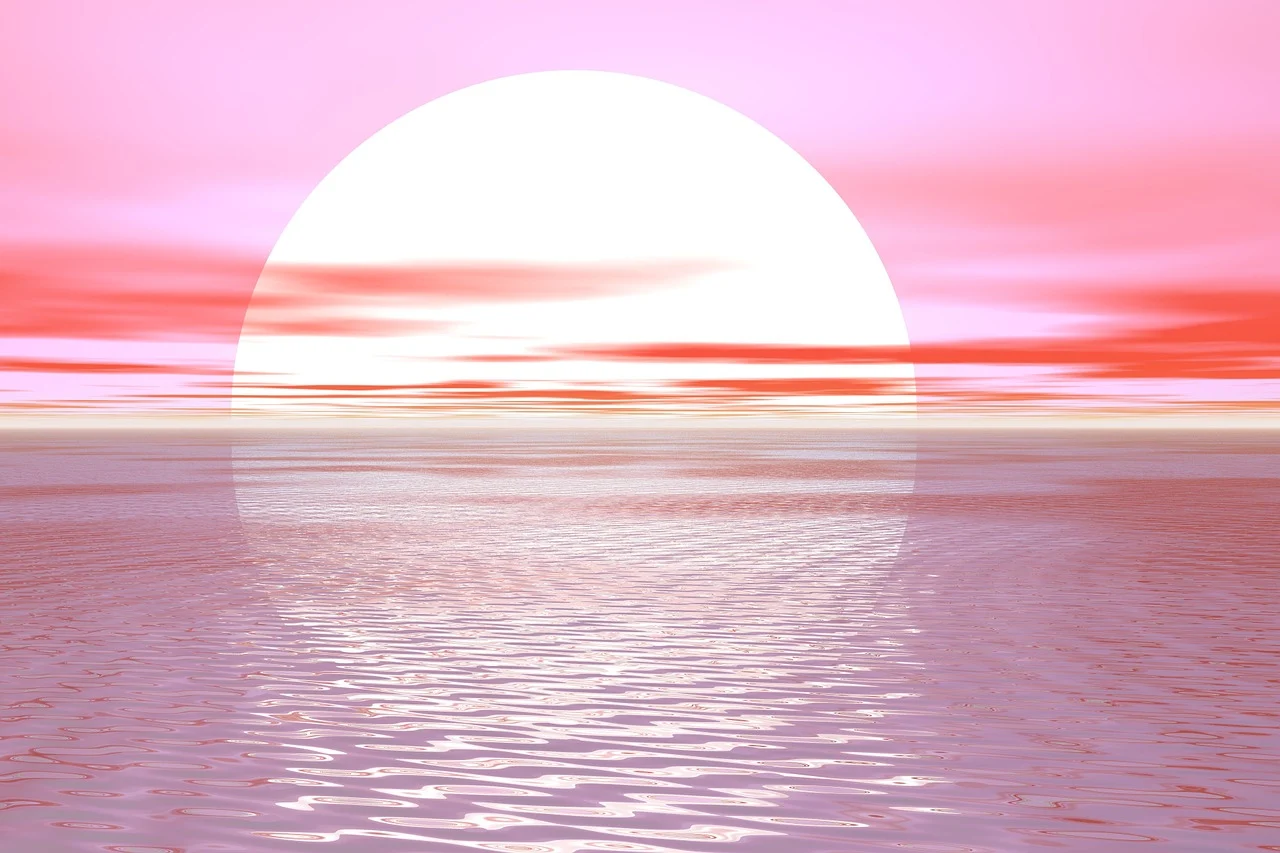
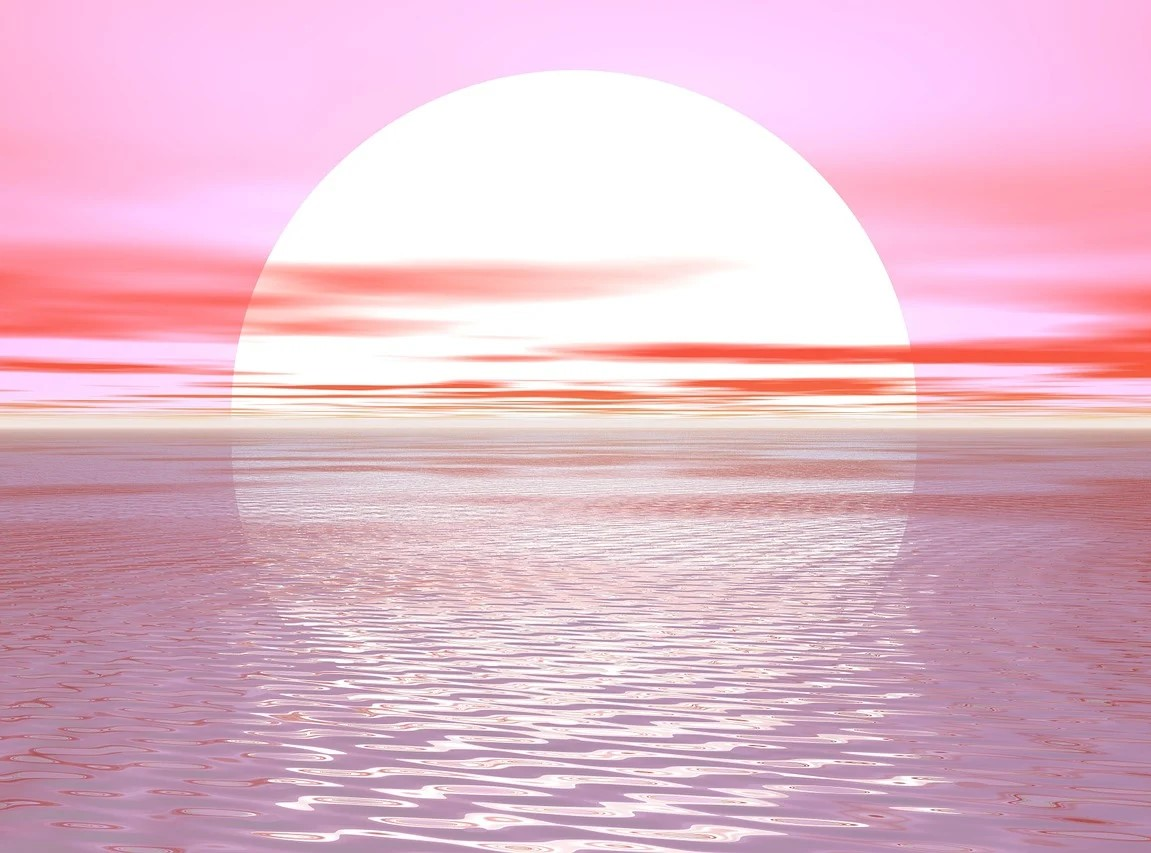
added bg image for landing page -> animated arrow + basic text + moved sections around

diff --git a/sass/partials/_hero.scss b/sass/partials/_hero.scss
@@ -1,22 +1,85 @@
 .hero {
-  height: 75%;
+  height: 100vh;
+  width: 100vw;
 
-  text-align: right;
+  // text-align: right;
 
-  &__heading {
+  // display: flex;
+  // flex-direction: column;
+  // justify-content: center;
+  // align-items: center;
+
+  // flex-wrap: wrap;
+  // align-content: center;
+
+  // margin: 0;
+  // padding: 0;
+
+  &__container {
+    height: 100%;
     width: 100%;
-    font-size: 3em;
+    text-align: right;
 
-    padding: 1em 0.5em 0em 0em;
-    margin: 0em;
+    display: flex;
+    flex-direction: column;
+    justify-content: center;
+    align-items: center;
 
-    &--subheading {
-      font-size: 1em;
+    margin: 0;
 
-      padding: 0em 2em 0em 0em;
-      margin: 0em;
+    // border: 1px dotted white;
 
-      text-decoration: underline;
+    &__heading {
+      width: 90%;
+      height: 10%;
+
+      // padding: 1em 0.5em 0em 0em;
+      // margin: 0em;
+
+      // -webkit-text-stroke: 0.01px grey;
+
+      // border: 1px dotted white;
+      margin: 0;
+      padding: 0;
+
+      color: white;
+      font-size: 4em;
+
+      &--subheading {
+        // width: 80%;
+        height: 6%;
+        font-size: 2em;
+
+        // padding: 0em 0em 0em 0em;
+        // margin: 0em;
+
+        text-decoration: underline;
+      }
     }
+
+    &__background-img {
+      // width: 100vw;
+      // height: 100vh;
+
+      background-image: url("./assets/images/bg-img.jpg");
+      background-repeat: no-repeat;
+      background-position: top right;
+      // background-size: cover;
+      background-size: 100% 100%;
+
+      position: static;
+
+      // margin: 0;
+      // padding: 0 0 50vh 0;
+    }
+  }
+
+  &--arrow-img {
+    height: 3em;
+    width: 3em;
+
+    position: static;
+
+    filter: invert(100%);
   }
 }

diff --git a/index.html b/index.html
@@ -22,10 +22,49 @@
     <body>
       <main>
         <section class="hero">
-          <h1 class="hero hero__heading slide-in-from-right">TOM KIP</h1>
-          <h2 class="hero hero__heading hero__heading--subheading">
-            Junior Software Consultant
-          </h2>
+          <div class="hero hero__container hero__container__background-img">
+            <h1 class="hero hero__container__heading slide-in-from-right">
+              Hi I'm,
+            </h1>
+            <h1 class="hero hero__container__heading slide-in-from-right">
+              TOM KIP
+            </h1>
+            <h2
+              class="hero hero__container__heading hero__container__heading--subheading"
+            >
+              Junior Software Consultant
+            </h2>
+            <img
+              class="hero--arrow-img blur-in-and-out"
+              src="./assets/icons/arrow.svg"
+            />
+          </div>
+        </section>
+        <section>
+          <h1 class="about about__header">About</h1>
+          <img
+            src="./assets/images/headshot-placeholder.svg"
+            class="about__img"
+          />
+          <p class="about">
+            My Name is Tom and I'm and Asipring Software engineer. I've
+            completed a Bachelors in Advanced Computing with Majors in Software
+            Development and Computer Science.
+          </p>
+          <p class="about">
+            I'm currently completing _Nology's program, having pivoted from the
+            Manufacturing Sector. I personally love to solve problems with
+            creative and efficient methods, I loved to work collaboratively with
+            peers or customers and at time indepently as well.
+          </p>
+          <p class="about">
+            My main reason for pursuing a career in tech would be the amount of
+            advancements and wealth of knowledge that can be harnessed to please
+            customers especially with the AI advancements and customer focused
+            products that have emerged recently. This is why I want to grow with
+            the industry and help directly or indirectly create something
+            impactful.
+          </p>
         </section>
         <h4 class="techstack--header">Tech-Stack</h4>
         <section class="techstack">
@@ -199,32 +238,7 @@
             </li>
           </ul>
         </section>
-        <section>
-          <h1 class="about about__header">About</h1>
-          <img
-            src="./assets/images/headshot-placeholder.svg"
-            class="about__img"
-          />
-          <p class="about">
-            My Name is Tom and I'm and Asipring Software engineer. I've
-            completed a Bachelors in Advanced Computing with Majors in Software
-            Development and Computer Science.
-          </p>
-          <p class="about">
-            I'm currently completing _Nology's program, having pivoted from the
-            Manufacturing Sector. I personally love to solve problems with
-            creative and efficient methods, I loved to work collaboratively with
-            peers or customers and at time indepently as well.
-          </p>
-          <p class="about">
-            My main reason for pursuing a career in tech would be the amount of
-            advancements and wealth of knowledge that can be harnessed to please
-            customers especially with the AI advancements and customer focused
-            products that have emerged recently. This is why I want to grow with
-            the industry and help directly or indirectly create something
-            impactful.
-          </p>
-        </section>
+
         <section>
           <h2 class="project__header">Work Experience</h2>
           <div class="project--box">

diff --git a/style.css b/style.css
@@ -206,6 +206,20 @@ summary {
     opacity: 1;
   }
 }
+@keyframes blurInAndOut {
+  0% {
+    opacity: 0;
+    transform: translateX(0%);
+  }
+  50% {
+    opacity: 1;
+    transform: translateY(100%);
+  }
+  100% {
+    opacity: 0;
+    transform: translateX(0%);
+  }
+}
 body {
   background-color: #fffaf2;
   font-family: "Roboto", sans-serif;
@@ -238,6 +252,10 @@ h6 {
   animation-range: entry 10% cover 40%;
 }
 
+.blur-in-and-out {
+  animation: blurInAndOut 4s forwards ease-in infinite;
+}
+
 .nav {
   width: 100%;
   list-style-type: none;
@@ -259,20 +277,44 @@ h6 {
 }
 
 .hero {
-  height: 75%;
-  text-align: right;
+  height: 100vh;
+  width: 100vw;
 }
-.hero__heading {
+.hero__container {
+  height: 100%;
   width: 100%;
-  font-size: 3em;
-  padding: 1em 0.5em 0em 0em;
-  margin: 0em;
+  text-align: right;
+  display: flex;
+  flex-direction: column;
+  justify-content: center;
+  align-items: center;
+  margin: 0;
 }
-.hero__heading--subheading {
-  font-size: 1em;
-  padding: 0em 2em 0em 0em;
-  margin: 0em;
+.hero__container__heading {
+  width: 90%;
+  height: 10%;
+  margin: 0;
+  padding: 0;
+  color: white;
+  font-size: 4em;
+}
+.hero__container__heading--subheading {
+  height: 6%;
+  font-size: 2em;
   text-decoration: underline;
+}
+.hero__container__background-img {
+  background-image: url("./assets/images/bg-img.jpg");
+  background-repeat: no-repeat;
+  background-position: top right;
+  background-size: 100% 100%;
+  position: static;
+}
+.hero--arrow-img {
+  height: 3em;
+  width: 3em;
+  position: static;
+  filter: invert(100%);
 }
 
 .techstack {
@@ -326,7 +368,7 @@ h6 {
 }
 .about__header {
   font-size: 2em;
-  margin: 0;
+  margin: 1em 0 0 0;
   font-family: "Bebas Neue", sans-serif;
   text-align: center;
 }

diff --git a/sass/variables/_animations.scss b/sass/variables/_animations.scss
@@ -19,3 +19,18 @@
     opacity: 1;
   }
 }
+
+@keyframes blurInAndOut {
+  0% {
+    opacity: 0;
+    transform: translateX(0%);
+  }
+  50% {
+    opacity: 1;
+    transform: translateY(100%);
+  }
+  100% {
+    opacity: 0;
+    transform: translateX(0%);
+  }
+}

diff --git a/sass/_globals.scss b/sass/_globals.scss
@@ -26,6 +26,9 @@ h6 {
   color: c.$primary;
 
   text-align: center;
+
+  // margin: 0;
+  // padding: 0;
 }
 
 .slide-in-from-right {
@@ -38,4 +41,8 @@ h6 {
   animation: slideInFromLeft 1s forwards ease-in;
   animation-timeline: view();
   animation-range: entry 10% cover 40%;
+}
+
+.blur-in-and-out {
+  animation: blurInAndOut 4s forwards ease-in infinite;
 }

diff --git a/sass/partials/_about.scss b/sass/partials/_about.scss
@@ -11,7 +11,7 @@
   &__header {
     font-size: 2em;
 
-    margin: 0;
+    margin: 1em 0 0 0;
     font-family: f.$header;
 
     text-align: center;